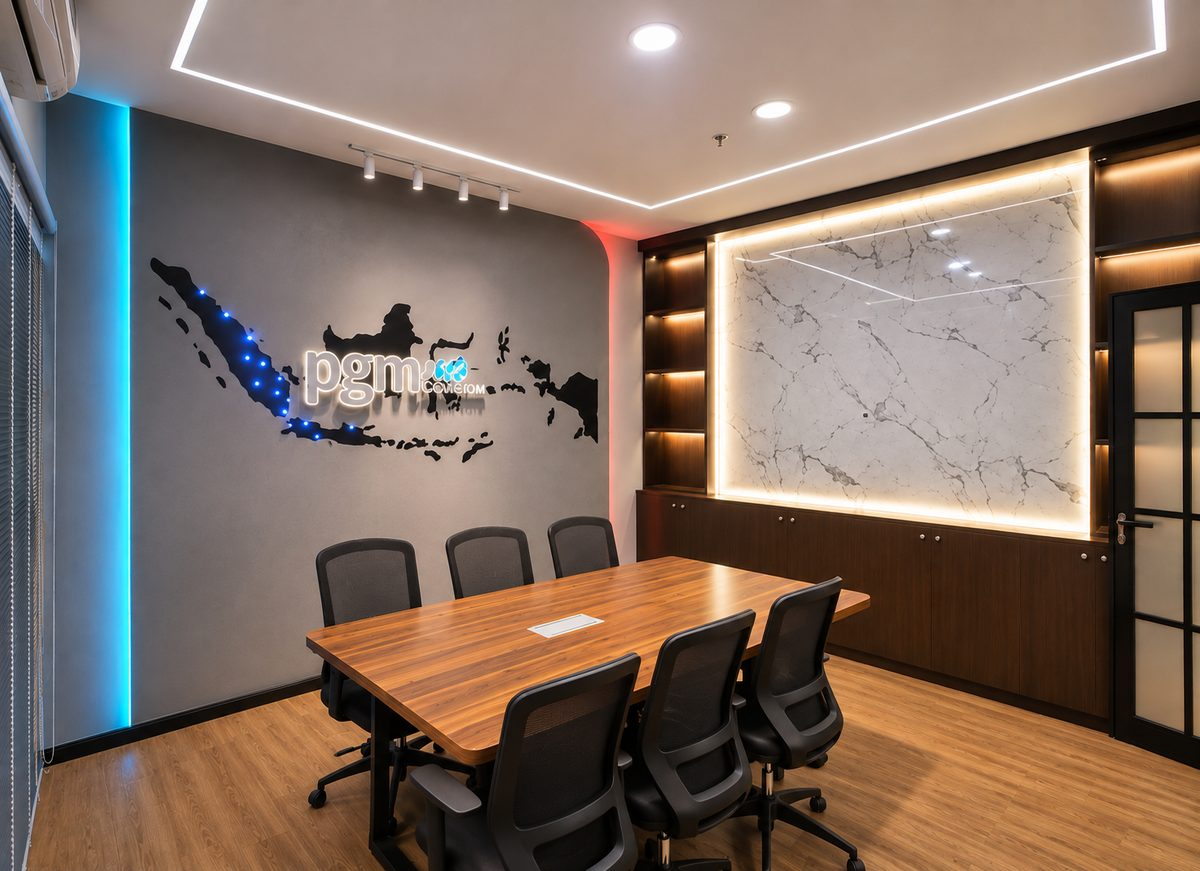
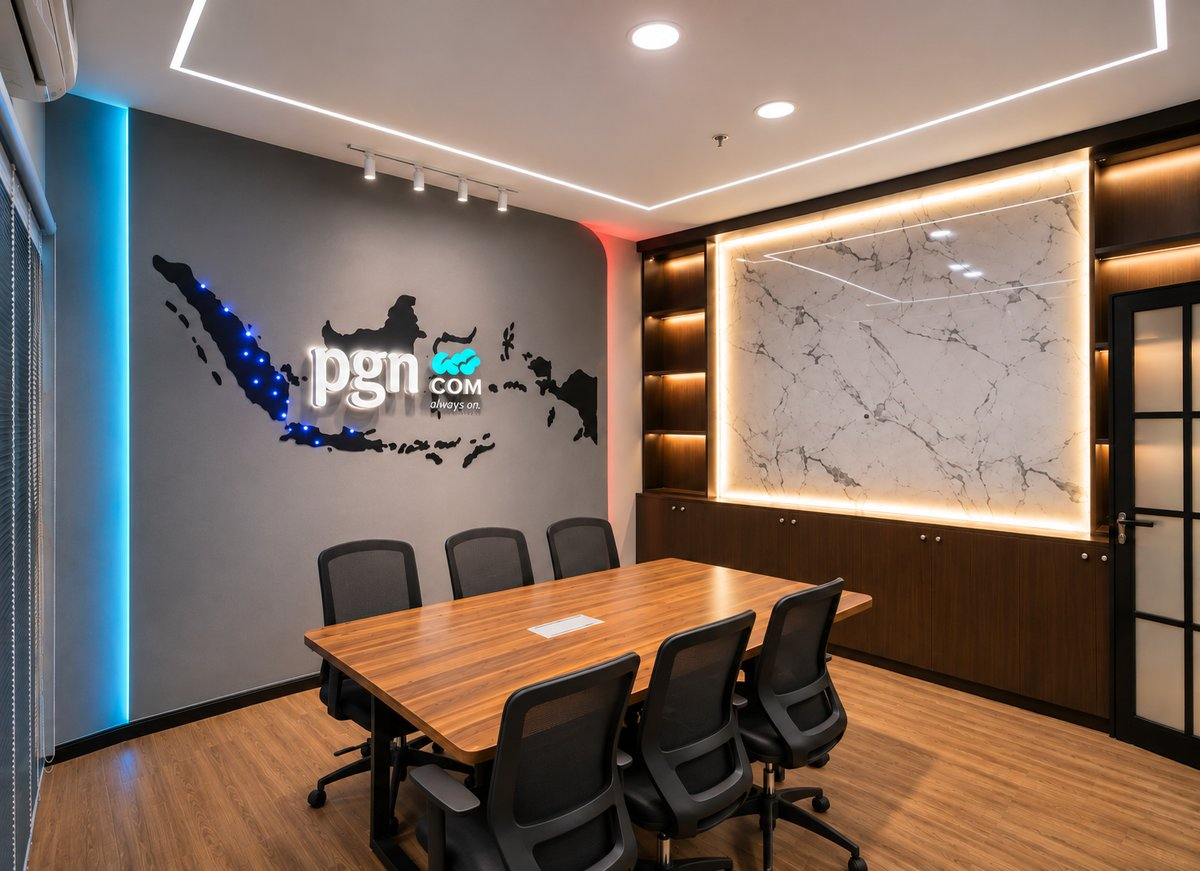
Corporate: new meeting room photo, caption 'Meeting room', remove old PGN photo
Claude-Session: https://claude.ai/code/session_01FAnCp28R3cSLytjCL5P7Zj

diff --git a/services-photo-preview.html b/services-photo-preview.html
@@ -119,7 +119,7 @@
   var services = [
     { t: 'Architecture / Civil', d: 'Structural renovation, indoor and outdoor.', img: 'hospitality-1-coliving-facade.jpg', cap: 'Mayan co-living, Palembang',
       items: ['Electrical &amp; AC installation','Floor tiling','Granite installation','Gypsum ceiling','Rolling door','Steel canopy','Store renovation (indoor &amp; outdoor)','Wall painting','Wall partition','Water installation','WPC ceiling'] },
-    { t: 'Furniture / Interior', d: 'Built-ins and custom furniture for the finished space.', img: 'corporate-2-meeting-room.jpg', cap: 'Corporate meeting room',
+    { t: 'Furniture / Interior', d: 'Built-ins and custom furniture for the finished space.', img: 'corporate-2-meeting-room.jpg', cap: 'Meeting room',
       items: ['Cabinets','Chairs','Custom sofas','Custom tables','Display booths','Exhibition booths','Office backdrops','TV backdrops','Wall bays'] },
     { t: 'Advertising &amp; Branding', d: 'Signage and brand identity, fabricated and installed.', img: 'retail-3-grapari-service-centre.jpg', cap: 'GraPARI MDP Palembang',
       items: ['ACP signage','Baliho','Dimensional letters (stainless / acrylic)','Lightbox','Neon box','Printing','Revisual','Storefront signage','UV fabric print'] },

diff --git a/index.html b/index.html
@@ -895,7 +895,7 @@
       watermark: 'CORPORATE', watermark_id: 'KORPORAT',
       images: [
         { caption: 'Government reception lobby', caption_id: 'Lobi resepsionis instansi pemerintah', src: 'assets/sector/corporate-1-reception-lobby-v2.jpg' },
-        { caption: 'Corporate meeting room', caption_id: 'Ruang rapat kantor', src: 'assets/sector/corporate-2-meeting-room-pgn.jpg' },
+        { caption: 'Meeting room', caption_id: 'Ruang rapat', src: 'assets/sector/corporate-2-meeting-room.jpg' },
         { caption: 'Office workroom with built-in storage', caption_id: 'Ruang kerja kantor dengan lemari built-in', src: 'assets/sector/corporate-3-office-workroom.jpg' }
       ],
       caption_id: 'Kantor, service center, dan instansi pemerintah, lengkap dengan wall bay, meja kerja, dan signage.',
